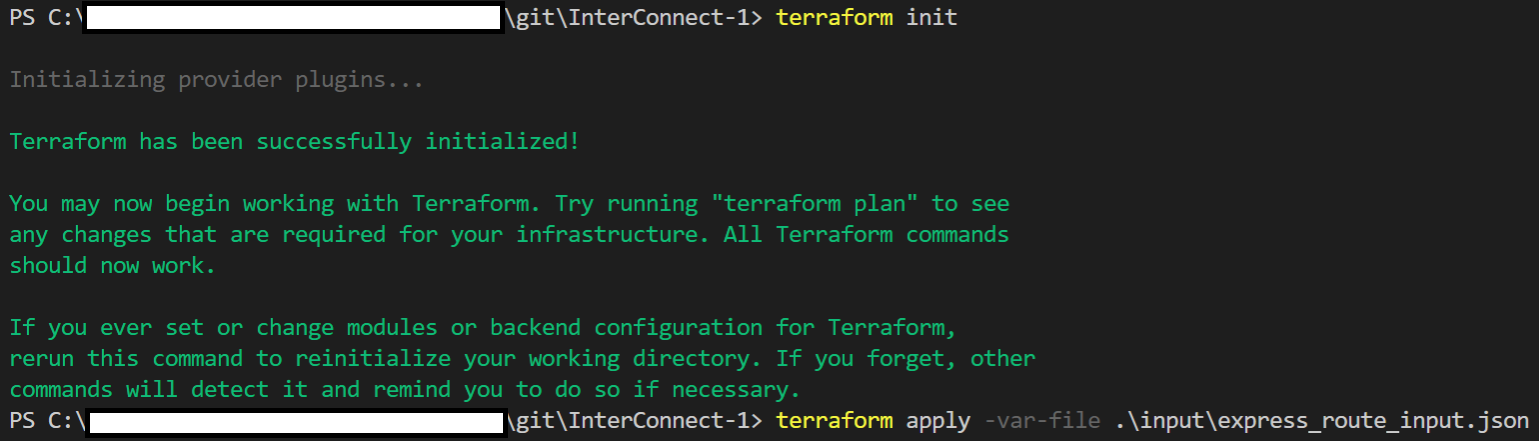
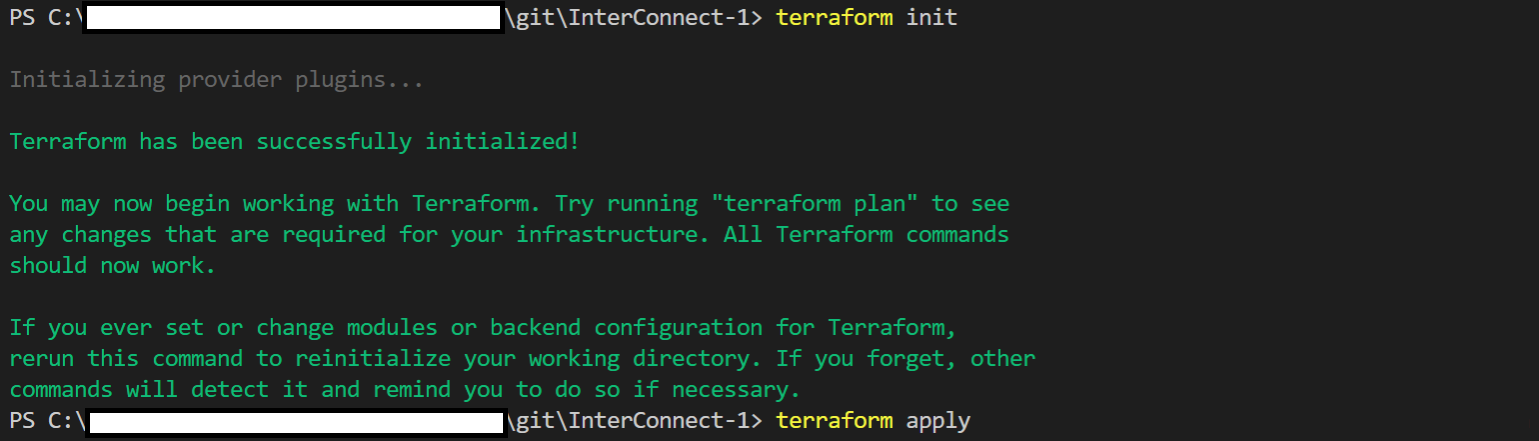
Adding TFVARS and updating InterConnect-2 to include two different VNETs

Changed region(s): [[0.6238, 0.9433, 0.9981, 0.9728]]

diff --git a/InterConnect-2/README.md b/InterConnect-2/README.md
@@ -48,7 +48,7 @@ We will discuss the details of **InterConnect-2** here.
 
 ### InterConnect-2: Setup Virtual Network Connectivity
 
-1. Open the [gateway_connection_input.json](./input/gateway_connection_input.json) file and fill in the information as required. Details regarding what information is expected can be found [below](#expressroutecircuit). Save and close the file.
+1. Open the [terraform.tfvars](./terraform.tfvars) file and fill in the information as required. Details regarding what information is expected can be found [below](#expressroutecircuit). Save and close the file.
 
 1. From the terminal, navigate to the `InterConnect-2` folder (if you haven't already) and run a terraform init command:
     
@@ -56,7 +56,7 @@ We will discuss the details of **InterConnect-2** here.
 
 1. Next, run the `terraform apply` command as follows:
 
-    `$ terraform apply -var-file ./input/gateway_connection_input.json`
+    `$ terraform apply`
 
 1. If your Express Route Provider Status is not set to **Provisioned**, you will receive the following output:
 
@@ -96,8 +96,8 @@ More information on this topic can be found in the [Azure documentation](https:/
     > **Note**: Please add the region name as shown in the link above. For example, US East region code 'East US'.
 - `express_route_name`: The name of the Express Route Circuit to be used for the inter-connect. This Express Route circuit must already exist and must have Oracle Cloud Infrastructure as the provider.
 - `vnet_name`: The name of the Virtual Network, whether it already exists or needs to be created by Terraform.
-- `vnet_cidr`: The IP Address space for your VNET in CIDR notation. You may enter '0' if your VNET exists. If a new VNET is being created, a valid IP Address space must be entered.
-- `GatewaySubnet_cidr`: This is the Gateway subnet address space in CIDR notation. If you have an existing 'GatewaySubnet' in your VNET, you may enter a '0' and the terraform script will lookup the information needed to find the information for the subnet. It is recommended that your GatewaySubnet have at least a /27 or larger (/27, /26, /25, etc.) for this inter-connect, especially when deploying a 10 Gbps throughput ExpressRoute circuit. Bear in mind, that there can only be 1 GatewaySubnet per VNET. If you are also planning on connecting your on-premises network to Azure using ExpressRoute/VPN, the recommendation is to carve out a GatewaySubnet that would be sufficient to route traffic to on-prem and to OCI. See this [link](https://docs.microsoft.com/en-us/azure/vpn-gateway/vpn-gateway-about-vpn-gateway-settings#requirements) for more details.
+- `vnet_cidr`: The IP Address space for your VNET in CIDR notation. Please enter '0' if your VNET exists. If a new VNET is being created, a valid IP Address space must be entered.
+- `GatewaySubnet_cidr`: This is the Gateway subnet address space in CIDR notation. If you have an existing 'GatewaySubnet' in your VNET, please enter a '0' and the terraform script will lookup the information needed to find the information for the subnet. It is recommended that your GatewaySubnet have at least a /27 or larger (/27, /26, /25, etc.) for this inter-connect, especially when deploying a 10 Gbps throughput ExpressRoute circuit. Bear in mind, that there can only be 1 GatewaySubnet per VNET. If you are also planning on connecting your on-premises network to Azure using ExpressRoute/VPN, the recommendation is to carve out a GatewaySubnet that would be sufficient to route traffic to on-prem and to OCI. See this [link](https://docs.microsoft.com/en-us/azure/vpn-gateway/vpn-gateway-about-vpn-gateway-settings#requirements) for more details.
 - `express_route_gateway_name`: The name of an existing ExpressRoute Gateway. Enter a '0' if you DO NOT have an existing ExpressRoute Gateway setup in your VNET and one will be created for you. The Gateway will be named: '<VNET_Name>-ERGW'.
 
 # Limitations

diff --git a/InterConnect-1/README.md b/InterConnect-1/README.md
@@ -45,7 +45,7 @@ We will discuss the details of **InterConnect-1** here.
 
 ### InterConnect-1: Create an Azure Express Route Circuit
 
-1. Open the [express_route_input.json](./input/express_route_input.json) file and fill in the information as required. Details regarding what information is expected can be found [below](#expressroutecircuit). Save and close the file.
+1. Open the [terraform.tfvars](./terraform.tfvars) file and fill in the information as required. Details regarding what information is expected can be found [below](#expressroutecircuit). Save and close the file.
 
 1. From the terminal, navigate to the `InterConnect-1` folder (if you haven't already) and run a terraform init command:
     
@@ -57,7 +57,7 @@ We will discuss the details of **InterConnect-1** here.
 
 1. Next, run the `terraform apply` command as follows:
 
-    `$ terraform apply -var-file ./input/express_route_input.json`
+    `$ terraform apply`
 
 1. This will create the required Azure resources. You will see the output as follows. Please copy the `expressroute_service_key`. **You will need it to create the OCI FastConnect Circuit**.
 
